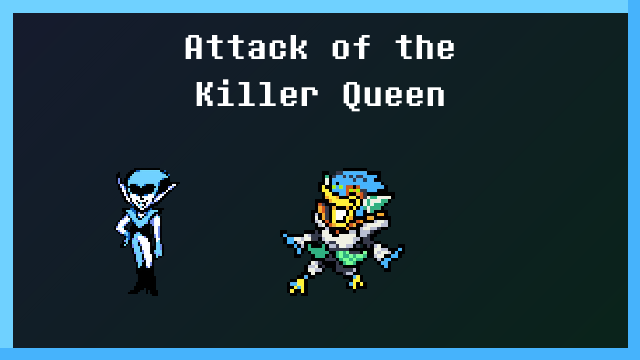
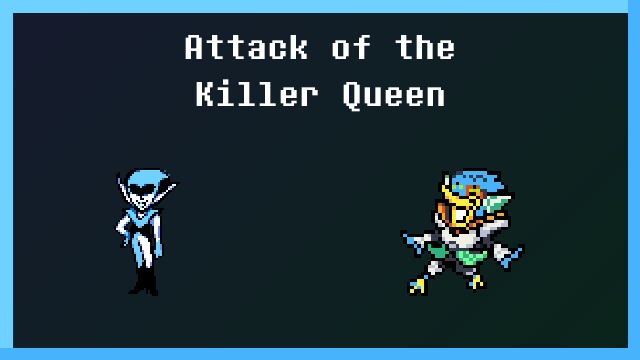
embed fix

Changed region(s): [[0.4375, 0.4583, 0.8438, 0.825]]

diff --git a/make_static_site.py b/make_static_site.py
@@ -168,7 +168,7 @@ def generate_song_embed(song_obj, output_path):
         y_img = (((EMBED_HEIGHT - BORDER_THICKNESS) + y_text) // 2) - (IMAGE_SIZE // 2)
         for img in images:
             embed.alpha_composite(img, (x_start, y_img))
-            x_start += (img.width + PADDING) * 2
+            x_start += (IMAGE_SIZE + PADDING) * 2
 
     embed.save(output_path)
 
